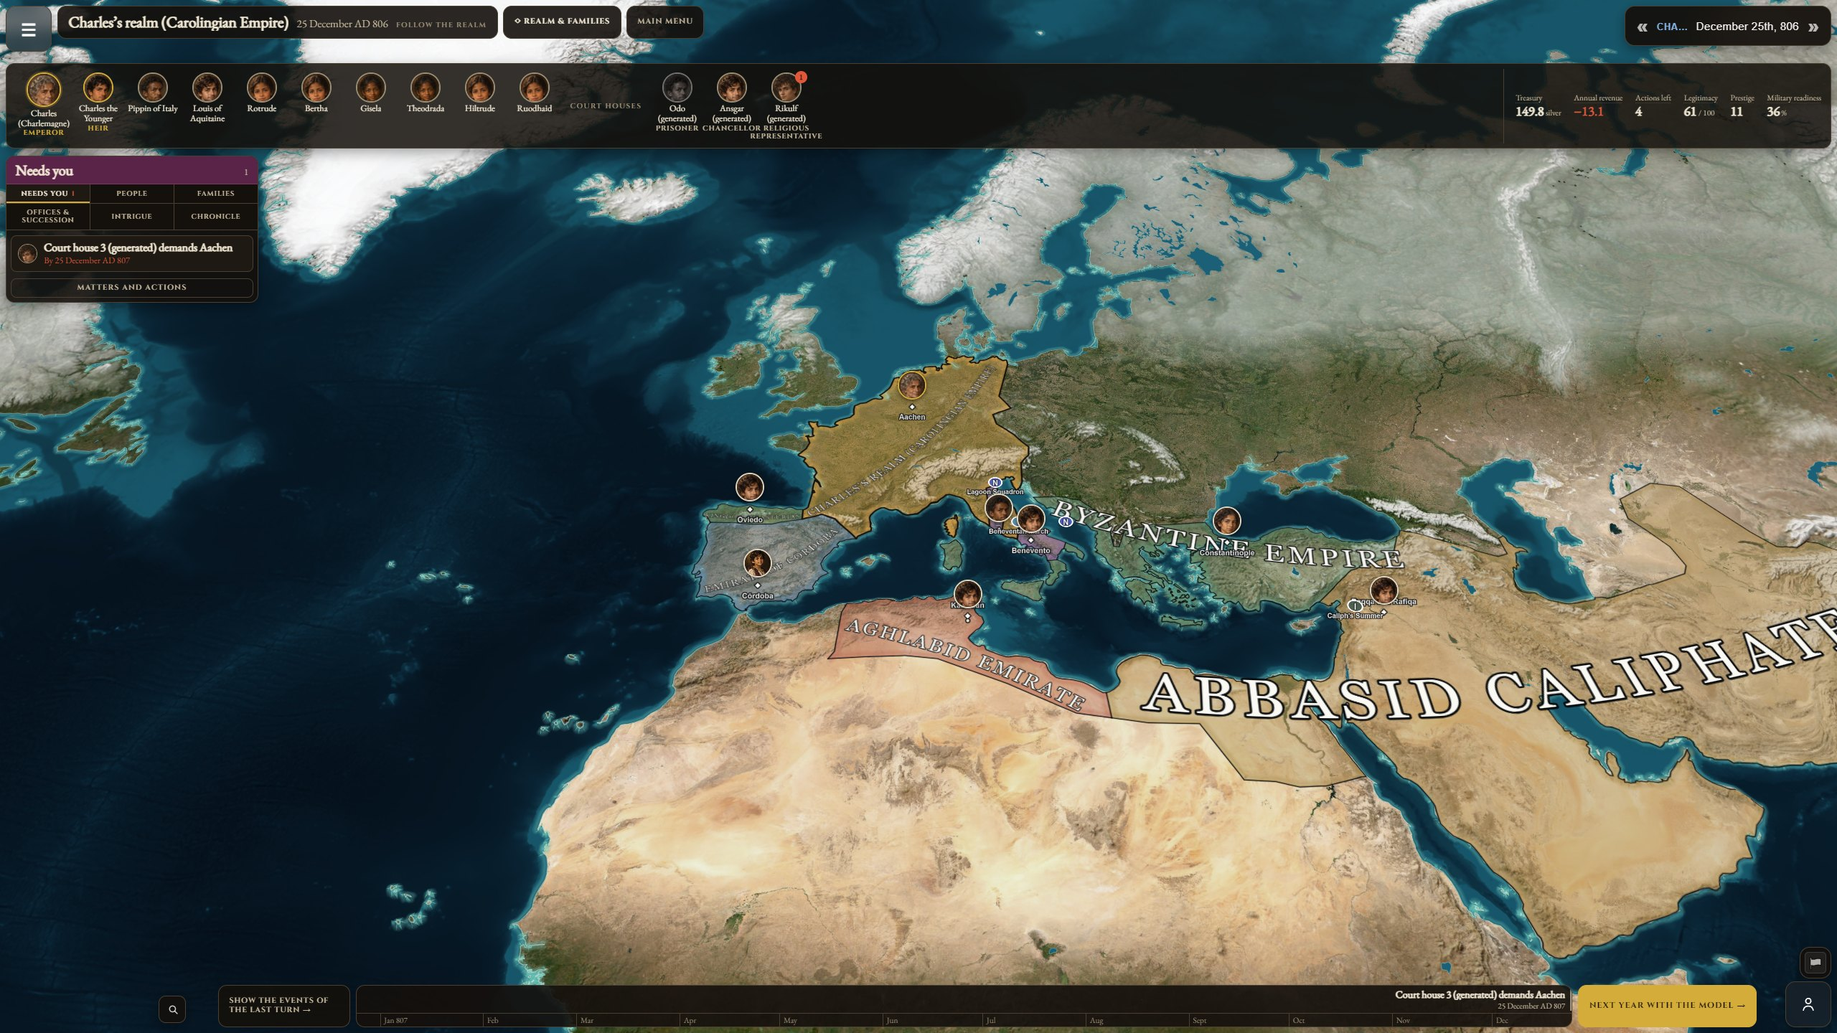
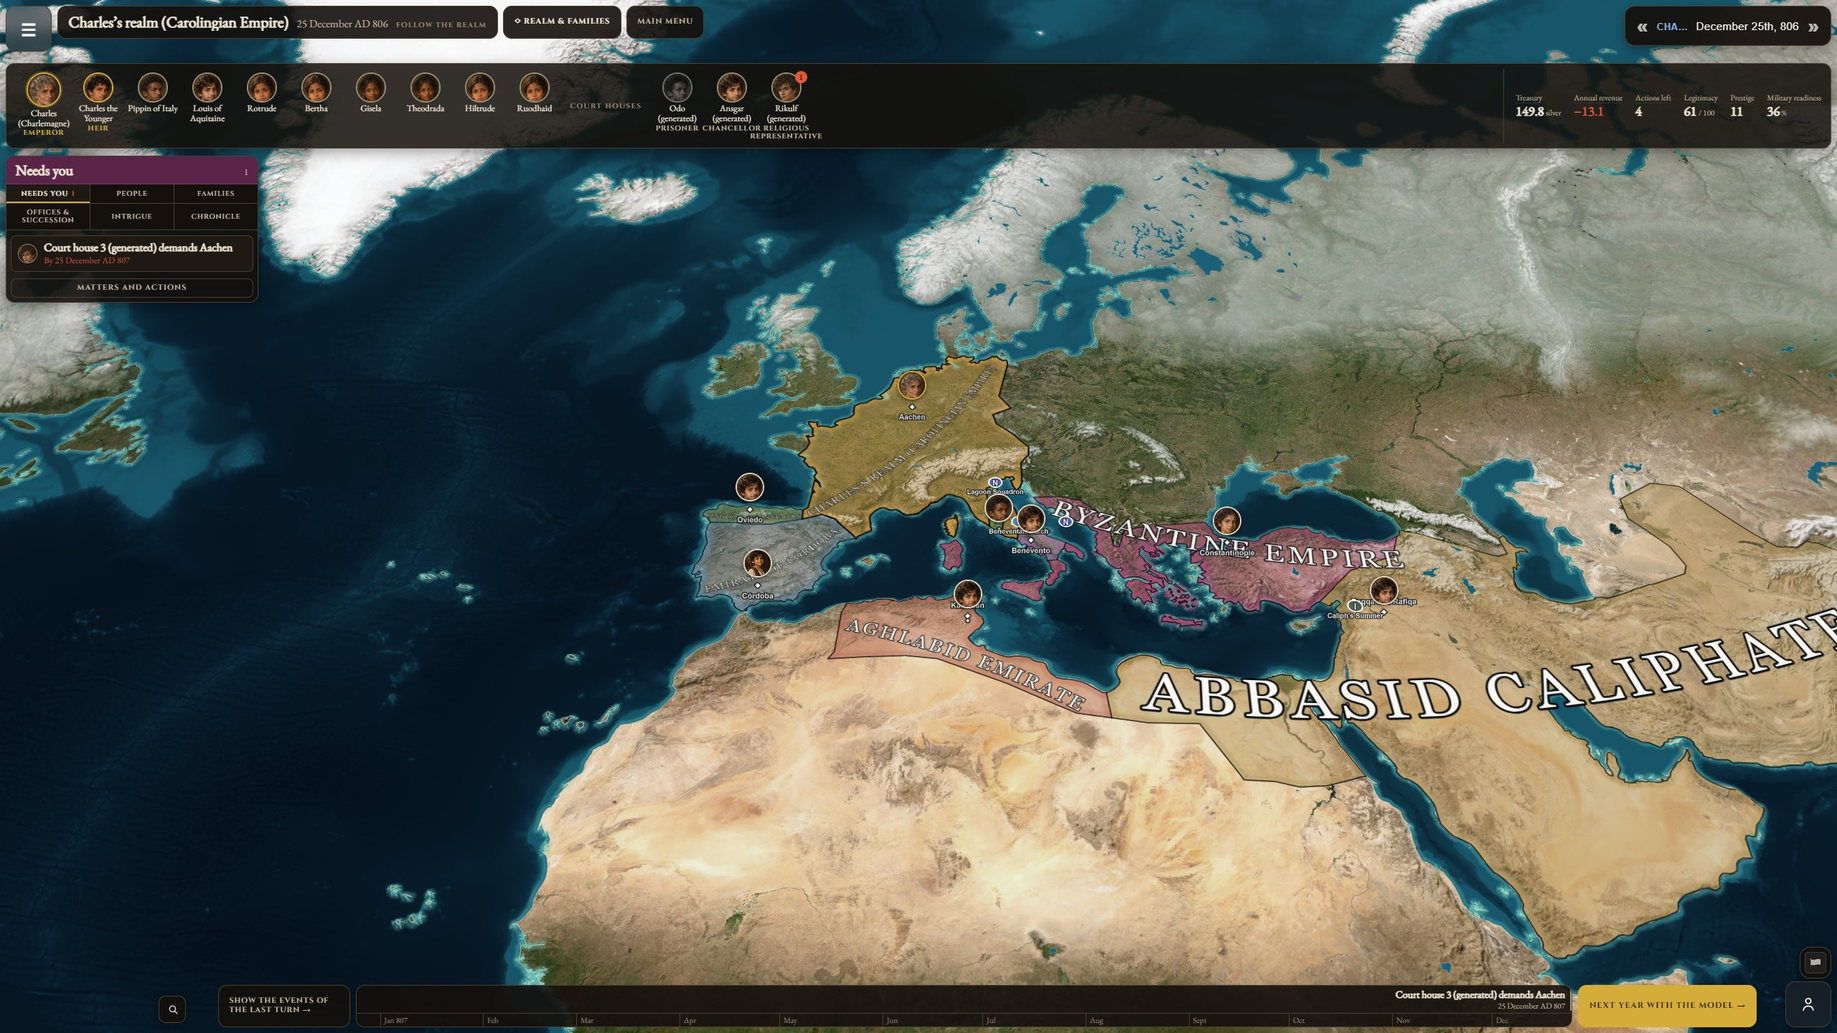
fix(map): one colour per realm of a historical start (#247)
The builder deals six colours to a package's polities by index, so
Charlemagne's ten realms shared four colours in pairs. Benevento and
Kyrkostaten border each other and were drawn as one realm with a line
through it; Byzantium shared Asturias's green.

A realm that shares one of the builder's six colours with an earlier
realm of its start takes the first unused colour of a fixed list, on
read, in normalizeWorldState and in the map's store. A colour somebody
chose stands. Campaigns already started get the same colours as new
ones, and no package is rebuilt.

The first four extra colours were chosen by looking at the map: a teal
Byzantium read as sea along its coasts and takes a porphyry red; an
olive Kyrkostaten sat too close to the gold beside it and takes a green.

The README's banner and screenshot are taken again.

Spec: docs/superpowers/specs/2026-11-19-realm-colours-design.md (backlog row 27)

diff --git a/src/runtime/historicalPolityColors.test.js b/src/runtime/historicalPolityColors.test.js
@@ -1,0 +1,74 @@
+// One colour per realm of a historical start.
+// Spec: docs/superpowers/specs/2026-11-19-realm-colours-design.md (backlog row 27).
+import test from "node:test";
+import assert from "node:assert/strict";
+import fs from "node:fs";
+import { BUILDER_REALM_COLOURS, EXTRA_REALM_COLOURS, withDistinctPolityColors } from "./historicalPolityColors.js";
+import { normalizeWorldState } from "./gameState.js";
+
+const packageWorld = (folder) => JSON.parse(fs.readFileSync(new URL(`../../server/seed/historical/${folder}/scenario.json`, import.meta.url), "utf8")).data.world;
+const colours = (overrides) => Object.fromEntries(Object.entries(overrides).map(([id, polity]) => [id, polity.color]));
+const world = (pairs) => ({
+  historicalScenario: { kind: "historical", polities: pairs.map(([id]) => ({ id, nameSv: id })) },
+  polityOverrides: Object.fromEntries(pairs.map(([id, color]) => [id, { aliases: [], code: id, color, name: id, note: "" }])),
+});
+
+test("the builder's palette is the one the packages were built with", () => {
+  const builder = fs.readFileSync(new URL("../../scripts/build-historical-scenarios.mjs", import.meta.url), "utf8");
+  assert.ok(builder.includes(`[${BUILDER_REALM_COLOURS.map((colour) => `'${colour}'`).join(",")}][i % 6]`), "the six colours and their order");
+  const all = [...BUILDER_REALM_COLOURS, ...EXTRA_REALM_COLOURS];
+  assert.equal(new Set(all).size, all.length, "no extra colour repeats another");
+  for (const colour of all) assert.match(colour, /^#[0-9a-f]{6}$/);
+});
+
+test("Charlemagne's ten realms get ten colours, and the first holder of each keeps its own", () => {
+  const shipped = packageWorld("charlemagne-800");
+  const before = colours(shipped.polityOverrides);
+  assert.equal(new Set(Object.values(before)).size, 6, "ten realms in six colours as shipped");
+  const after = colours(withDistinctPolityColors(shipped.polityOverrides, shipped));
+  assert.equal(Object.keys(after).length, 10);
+  assert.equal(new Set(Object.values(after)).size, 10);
+  const ids = shipped.historicalScenario.polities.map((polity) => polity.id);
+  for (const id of ids.slice(0, 6)) assert.equal(after[id], before[id], id);
+  assert.deepEqual(ids.slice(6).map((id) => after[id]), EXTRA_REALM_COLOURS.slice(0, 4), "in the scenario's order");
+  // The two pairs that border each other on the map.
+  assert.notEqual(after["duchy-of-benevento"], after["papal-states"]);
+  assert.notEqual(after["kingdom-of-asturias"], after["byzantine-empire"]);
+  assert.equal(shipped.polityOverrides["papal-states"].color, before["papal-states"], "the world it was given is not written to");
+});
+
+test("a start whose realms already differ comes back as the object it was", () => {
+  for (const folder of ["egypt-3000bc", "john-1200", "world-1500"]) {
+    const shipped = packageWorld(folder);
+    assert.equal(withDistinctPolityColors(shipped.polityOverrides, shipped), shipped.polityOverrides, folder);
+  }
+  const repaired = packageWorld("charlemagne-800");
+  const once = withDistinctPolityColors(repaired.polityOverrides, repaired);
+  assert.equal(withDistinctPolityColors(once, { ...repaired, polityOverrides: once }), once, "a repaired save needs nothing more");
+});
+
+test("only the builder's shared colours are replaced", () => {
+  // A colour someone chose stands, shared or not.
+  const chosen = world([["a", "#123456"], ["b", "#123456"], ["c", "#c49b53"], ["d", "#C49B53 "]]);
+  assert.deepEqual(colours(withDistinctPolityColors(chosen.polityOverrides, chosen)), { a: "#123456", b: "#123456", c: "#c49b53", d: "#b9728c" });
+  // An extra colour a realm already holds is not handed out again.
+  const taken = world([["a", "#c49b53"], ["b", "#b9728c"], ["c", "#c49b53"]]);
+  assert.equal(withDistinctPolityColors(taken.polityOverrides, taken).c.color, "#c57f45");
+  // A polity the scenario does not list (one the model founded) is left alone and does not count.
+  const founded = world([["a", "#c49b53"]]);
+  founded.polityOverrides.rebels = { code: "rebels", color: "#c49b53", name: "Rebels" };
+  assert.equal(withDistinctPolityColors(founded.polityOverrides, founded), founded.polityOverrides);
+  // Outside a historical package nothing is touched.
+  const stock = { polityOverrides: { Germany: { color: "#c49b53" }, France: { color: "#c49b53" } } };
+  assert.equal(withDistinctPolityColors(stock.polityOverrides, stock), stock.polityOverrides);
+  assert.equal(withDistinctPolityColors(undefined, chosen), undefined);
+});
+
+test("both readers of the world make the repair", () => {
+  const shipped = packageWorld("charlemagne-800");
+  const normalized = normalizeWorldState(shipped);
+  assert.equal(new Set(Object.values(colours(normalized.polityOverrides))).size, 10);
+  assert.equal(normalized.polityOverrides["papal-states"].color, EXTRA_REALM_COLOURS[3]);
+  const store = fs.readFileSync(new URL("../Game/Map/useWorldState.js", import.meta.url), "utf8");
+  assert.match(store, /withDistinctPolityColors\(withHistoricalPolityNames\(state\?\.polityOverrides \?\? EMPTY_OBJECT, state\), state\)/);
+});

diff --git a/src/runtime/historicalPolityColors.js b/src/runtime/historicalPolityColors.js
@@ -1,0 +1,52 @@
+// One colour per realm of a historical start.
+// Spec: docs/superpowers/specs/2026-11-19-realm-colours-design.md.
+//
+// scripts/build-historical-scenarios.mjs deals six colours to a package's polities by index, so a package with
+// more than six realms repeats them: Charlemagne's ten share four colours in pairs, and two of the pairs border
+// each other. The colour lives in polityOverrides[id].color, in the package and in every save made from it. The
+// repair is made on read, in the game state's normalizer and in the map's store, like the names
+// (historicalPolityNames.js). No imports: the map's store reads the raw world.
+
+// The six colours the builder deals, in its order.
+export const BUILDER_REALM_COLOURS = Object.freeze(["#c49b53", "#ad6c5c", "#678b72", "#8f759e", "#66869d", "#a78c5a"]);
+
+// What a realm takes when an earlier realm of its start already holds its colour, in the order they are handed
+// out. The same muted family as the six. The first four go to Charlemagne's Silla, Tang, Byzantium and
+// Kyrkostaten: no blue or green for Byzantium, whose coasts would read as sea (seen in the first browser run).
+export const EXTRA_REALM_COLOURS = Object.freeze([
+  "#b9728c", "#c57f45", "#9c4f72", "#6f9a52", "#6f73a6", "#4f9a94", "#6aa6ba", "#94704f", "#5a7fb5", "#b4a03f",
+]);
+
+const colourKey = (value) => (typeof value === "string" ? value.trim().toLowerCase() : "");
+const BUILDER = new Set(BUILDER_REALM_COLOURS);
+
+// The world's polity records with each scenario realm in a colour of its own. A realm keeps its colour unless it
+// is one of the builder's six and an earlier realm of the scenario (in the scenario's order) holds the same one;
+// then it takes the first extra colour no realm of the scenario holds. A colour that is not the builder's is a
+// choice someone made and stands, shared or not. Returns the object it was given when nothing changes.
+export const withDistinctPolityColors = (polityOverrides, world) => {
+  if (world?.historicalScenario?.kind !== "historical" || !polityOverrides || typeof polityOverrides !== "object") {
+    return polityOverrides;
+  }
+  const ids = (Array.isArray(world.historicalScenario.polities) ? world.historicalScenario.polities : [])
+    .map((polity) => (typeof polity?.id === "string" ? polity.id.trim() : ""))
+    .filter((id) => id && polityOverrides[id] && typeof polityOverrides[id] === "object");
+  const held = new Set(ids.map((id) => colourKey(polityOverrides[id].color)).filter(Boolean));
+  const seen = new Set();
+  let repaired = null;
+  for (const id of ids) {
+    const colour = colourKey(polityOverrides[id].color);
+    if (!colour) continue;
+    if (!seen.has(colour) || !BUILDER.has(colour)) {
+      seen.add(colour);
+      continue;
+    }
+    const next = EXTRA_REALM_COLOURS.find((candidate) => !held.has(candidate));
+    if (!next) continue; // More shared colours than extras: the rest keep what they have.
+    held.add(next);
+    seen.add(next);
+    repaired ??= { ...polityOverrides };
+    repaired[id] = { ...polityOverrides[id], color: next };
+  }
+  return repaired ?? polityOverrides;
+};

diff --git a/src/runtime/gameState.js b/src/runtime/gameState.js
@@ -12,6 +12,7 @@ import { normalizeEventPlaces } from "./eventPlaces.js";
 import { buildOwnerAliasMap, createOwnerResolver, isRealCountryName, toCountryName } from "./ownerNames.js";
 import { foundPolityIfUnknown } from "./polityFounding.js";
 import { updatedPolityName, withHistoricalPolityNames } from "./historicalPolityNames.js";
+import { withDistinctPolityColors } from "./historicalPolityColors.js";
 import { normalizeTerritoryBasis, screenTerritoryBasis } from "./territoryBasis.js";
 import { normalizeApplicationReceipt } from "./applicationReceipt.js";
 import { applyReportOps, normalizeReportOp, normalizeReports } from "./reports.js";
@@ -3522,12 +3523,13 @@ const withFormerSceneKeyMoved = (world) => {
 export const normalizeWorldState = (world) => {
   const nextWorld = withFormerSceneKeyMoved(world && typeof world === "object" ? world : {});
   // Repair on read: until 19 November 2026 every update of a historical polity wrote its id over
-  // its name (docs/superpowers/specs/2026-11-19-historical-polity-names-design.md).
-  const polityOverrides = withHistoricalPolityNames(Object.fromEntries(
+  // its name (docs/superpowers/specs/2026-11-19-historical-polity-names-design.md). And a start's
+  // realms that were dealt the same colour each get their own (2026-11-19-realm-colours-design.md).
+  const polityOverrides = withDistinctPolityColors(withHistoricalPolityNames(Object.fromEntries(
     Object.entries(nextWorld.polityOverrides ?? {})
       .map(([key, value]) => [key, normalizePolityOverride(key, value)])
       .filter(([, value]) => value),
-  ), nextWorld);
+  ), nextWorld), nextWorld);
 
   // Canonicalise on READ too, so a save written before this migrated — or one
   // whose owners were split across a polity's token and its era display name by

diff --git a/src/Game/Map/useWorldState.js b/src/Game/Map/useWorldState.js
@@ -3,6 +3,7 @@ import { JSON_URLS, readJson, reportPerfOperation } from "../../runtime/assets.j
 import { recordMapTrace, recordMapWork } from "../../runtime/mapPerfTrace.js";
 import { buildOwnerAliasMap, createOwnerResolver } from "../../runtime/ownerNames.js";
 import { withHistoricalPolityNames } from "../../runtime/historicalPolityNames.js";
+import { withDistinctPolityColors } from "../../runtime/historicalPolityColors.js";
 import { mapViewOf } from "../../../server/mapProjection.js";
 import { normalizeGroupAreas, normalizeGroups } from "../../runtime/groups.js";
 
@@ -159,9 +160,10 @@ const deriveMapState = (state) => ({
       regionClaimants: withSettledClaims(folded.claimants, state?.settledRegionClaims),
     };
   })(),
-  // The map's store reads the raw world, so the repair normalizeWorldState makes is made here too: a
-  // historical polity whose label was overwritten by its id is drawn under the scenario's name.
-  polityOverrides: withHistoricalPolityNames(state?.polityOverrides ?? EMPTY_OBJECT, state),
+  // The map's store reads the raw world, so the repairs normalizeWorldState makes are made here too: a
+  // historical polity whose label was overwritten by its id is drawn under the scenario's name, and
+  // realms that were dealt the same colour are each drawn in their own.
+  polityOverrides: withDistinctPolityColors(withHistoricalPolityNames(state?.polityOverrides ?? EMPTY_OBJECT, state), state),
   // Groups and the regions they control (runtime/groups.js), read through the
   // same normalizer the game uses; a world without groups costs nothing.
   ...(() => {

diff --git a/src/runtime/gameState.historicalPolityName.test.js b/src/runtime/gameState.historicalPolityName.test.js
@@ -81,5 +81,5 @@ test("the map's store makes the same repair, and leaves an unharmed world as the
   assert.equal(withHistoricalPolityNames(undefined, sound), undefined);
   // The store reads the raw world (useWorldState.js), not normalizeWorldState.
   const store = fs.readFileSync(new URL("../Game/Map/useWorldState.js", import.meta.url), "utf8");
-  assert.match(store, /polityOverrides: withHistoricalPolityNames\(state\?\.polityOverrides \?\? EMPTY_OBJECT, state\),/);
+  assert.match(store, /withHistoricalPolityNames\(state\?\.polityOverrides \?\? EMPTY_OBJECT, state\)/);
 });

diff --git a/docs/development/DEVELOPMENT-BACKLOG.md b/docs/development/DEVELOPMENT-BACKLOG.md
@@ -30,7 +30,7 @@ Updated 12 November 2026. The owner's current requests take precedence over the 
 | 24 | Bound `memories`, `stories`, `appliedCommandIds` and dead persons in character saves. At year 200 the dead hold 250 920 B. | Complete (spec `docs/superpowers/specs/2026-11-08-memory-fade-design.md`): health memories of the dead fade outside the story director's 1 000-memory window, so Charlemagne seed 777 holds 1 638 memories instead of 2 826 at year 300; pinned by `src/runtime/characters/memoryFade.test.js`. Resolved conditions of the dead fade too (spec `docs/superpowers/specs/2026-11-08-condition-fade-design.md`): the dead hold 142 conditions instead of 625 at year 300; pinned by `src/runtime/characters/conditionFade.test.js`. Relations between two dead persons fade (spec `docs/superpowers/specs/2026-11-08-relation-fade-design.md`): 53 relations instead of 292 at year 300; pinned by `src/runtime/characters/relationFade.test.js`. A dead person's `lastDecision` becomes `null` (spec `docs/superpowers/specs/2026-11-08-decision-fade-design.md`): state 1 363 051 B instead of 1 403 213 B at year 300; pinned by `src/runtime/characters/decisionFade.test.js`. Old settled stories fade (spec `docs/superpowers/specs/2026-11-09-story-fade-design.md`, PR #85): resolved and closed stories older than 60 months whose cause is outside the 1 000-memory window and that nothing names leave the state, so Charlemagne seed 777 holds 247 stories instead of 379 at year 300; `fadeAll` runs every fade to a fixpoint so a long jump equals monthly steps; pinned by `src/runtime/characters/storyFade.test.js`. Closed on 9 November 2026 with the rest left as it is, measured over 300 years through `planCharacterAdvance`. `appliedCommandIds` holds 743 ids (13 158 B) at Charlemagne seed 777 and 1 283 ids (24 006 B) at Hadara seed 321, 1.2 to 1.4 % of the state; a cap would save little, and a retried command, host transition or same-date advance whose id left the window would run again. Memories outside the 1 000-memory window whose participants are all dead hold 73 KB of a 924 273 B state at seed 777; about half are deaths, births, successions, marriages and nicknames that the character panel shows as a dead person's history, and `validateEventChains` counts every `chain_origin` and `chain_choice` memory. The dead hold 176 042 B, of which `historicalOrigin` (55 710 B) carries provenance labels and `deathAppearance` (21 688 B) the frozen portrait. |
 | 25 | Let succession find adoptions in a record of its own instead of scanning `memories` for `type: 'adoption'` (`election.js`, `succession.js`). | Complete (spec `docs/superpowers/specs/2026-11-08-adoption-record-design.md`): `state.adoptions` holds `{ adopterId, childId, date }`, the `adopt` command appends to it, and a save without it gets it from its adoption memories; pinned by `src/runtime/characters/adoptionRecord.test.js`. |
 | 26 | Stop asking a scenario for a `stats.json` it does not have. Every court year asked the Charlemagne scenario for `assets/stats` twice and got 404, which the browser logs as an error. | Complete: `loadStatSheetDefinition` returns the standard sheet without a request when the scenario's catalog entry says `assetStatus.stats` is false; an entry that says nothing about its files is asked as before. Pinned by `src/runtime/statsSheetRequest.test.js`. |
-| 27 | Give each realm of a start its own colour on the map. `scripts/build-historical-scenarios.mjs` deals six colours by index (`i % 6`), so the ten realms of AD 800 share them: Karls rike and Silla, the Aghlabids and Tang, Asturias and Byzantium, and Benevento and Kyrkostaten, which border each other. | Open. The colour lives in each package (`polityOverrides[].color`) and in every save made from it, and the map, the units and the markers each read it; the fix has to hold for all three and for campaigns already started. |
+| 27 | Give each realm of a start its own colour on the map. `scripts/build-historical-scenarios.mjs` deals six colours by index (`i % 6`), so the ten realms of AD 800 share them: Karls rike and Silla, the Aghlabids and Tang, Asturias and Byzantium, and Benevento and Kyrkostaten, which border each other. | Complete (spec `docs/superpowers/specs/2026-11-19-realm-colours-design.md`): the colour lives in `polityOverrides[].color`, in each package and in every save made from it, and only the map's fill reads it (units and markers read `colors.json`, empty in a historical campaign). `withDistinctPolityColors` in `src/runtime/historicalPolityColors.js` gives a realm that shares one of the builder's six colours with an earlier realm of its start the first unused colour of a fixed list of ten, on read, in `normalizeWorldState` and in the map's store. Charlemagne's Silla, Tang, Byzantium and Kyrkostaten take `#b9728c`, `#c57f45`, `#9c4f72` and `#6f9a52`; campaigns already started get the same colours. No package is rebuilt; the builder still deals six by index, which matters again when a package next ships more than six realms. |
 | 28 | Sweep the seasons across the map when a year turns. | Open; left by `docs/superpowers/specs/2026-11-13-living-map-design.md`. The snow follows the date and stands still while the year is written. |
 | 29 | Portraits of their own for the neighbouring rulers at their seats. | Open; waits for the owner's yes to image generation. The seat portraits of rulers without authored art share a family illustration. |
 | 30 | Keep a historical polity's id as its key when the model renames it. A rename (`polityChanges[].name`) re-keys the polity to the new name, as upstream does where a country is its name. | Open; not seen in the nine court years measured (design `docs/superpowers/specs/2026-11-19-historical-polity-names-design.md`, non-goal). |

diff --git a/docs/superpowers/specs/2026-11-19-realm-colours-design.md b/docs/superpowers/specs/2026-11-19-realm-colours-design.md
@@ -1,0 +1,32 @@
+# One colour per realm of a start: design
+
+## Why
+
+Backlog row 27. `scripts/build-historical-scenarios.mjs` deals six colours to a package's polities by index (`i % 6`). Three packages have six realms or fewer. Charlemagne has ten, so four colours are held by two realms each: Karls rike and Silla, the Aghlabids and Tang, Asturias and Byzantium, Benevento and Kyrkostaten. The last pair border each other in Italy, and the map drew them as one realm with a line through it.
+
+The colour lives in `polityOverrides[id].color`, in the package and in every save made from it (`colors.json` is empty in a historical campaign). The map reads it for the realm's fill.
+
+## Goals
+
+- Each realm of a start is drawn in a colour no other realm of that start holds.
+- Campaigns already started get the same colours as new ones, without a migration step.
+- A colour somebody chose stays.
+
+## Non-goals
+
+- No new release of Charlemagne for this. A release changes what new campaigns get and nothing in a campaign already started; the repair below covers both. When the package is next rebuilt for another reason, the builder can deal distinct colours and the repair has nothing left to do.
+- Two different colours that look alike are left: Karls rike's gold (`#c49b53`) and the Abbasids' khaki (`#a78c5a`) do not border each other.
+- Units and markers take their colours from `colors.json`, as before.
+
+## Rulings
+
+1. **The repair is made on read, in both readers**, like the names of 19 November (`2026-11-19-historical-polity-names-design.md`): `normalizeWorldState` and the map's store. The rule lives once, in `src/runtime/historicalPolityColors.js`, and returns the object it was given when nothing changes. The repaired world is what the next write stores.
+2. **Only the builder's shared colours are replaced.** A realm of the scenario keeps its colour unless it is one of the builder's six and an earlier realm of the scenario, in the scenario's order, holds the same one. The first holder keeps its own. A colour that is not one of the six is somebody's choice (the model's, a cheat's, an edited copy's) and stands, shared or not. A polity the scenario does not list is left alone. Cost if wrong: a realm keeps a colour it shares.
+3. **A realm that gives its colour up takes the first extra colour no realm of the scenario holds**, from a fixed list of ten in the muted family of the six. The order is fixed, so the same save always gets the same colours. For Charlemagne: Silla `#b9728c`, Tang `#c57f45`, Byzantium `#9c4f72`, Kyrkostaten `#6f9a52`.
+4. **The first four extras were chosen by looking at the map.** Byzantium first took a teal and read as sea along its coasts; it takes a porphyry red. Kyrkostaten first took an olive and sat too close to the gold on both sides of it; it takes a green.
+
+## Checks
+
+- `src/runtime/historicalPolityColors.test.js`: the builder's six as the packages were built; Charlemagne's ten realms in ten colours with the first holders unchanged; the three other packages and an already repaired save returned as they were; a chosen colour, a held extra, a polity outside the scenario and a world without a package; both readers.
+- The full suite and the build.
+- Browser, the Charlemagne test campaign at AD 806: Byzantium, Kyrkostaten and Benevento each in their own colour. The README's banner and screenshot are taken again.
